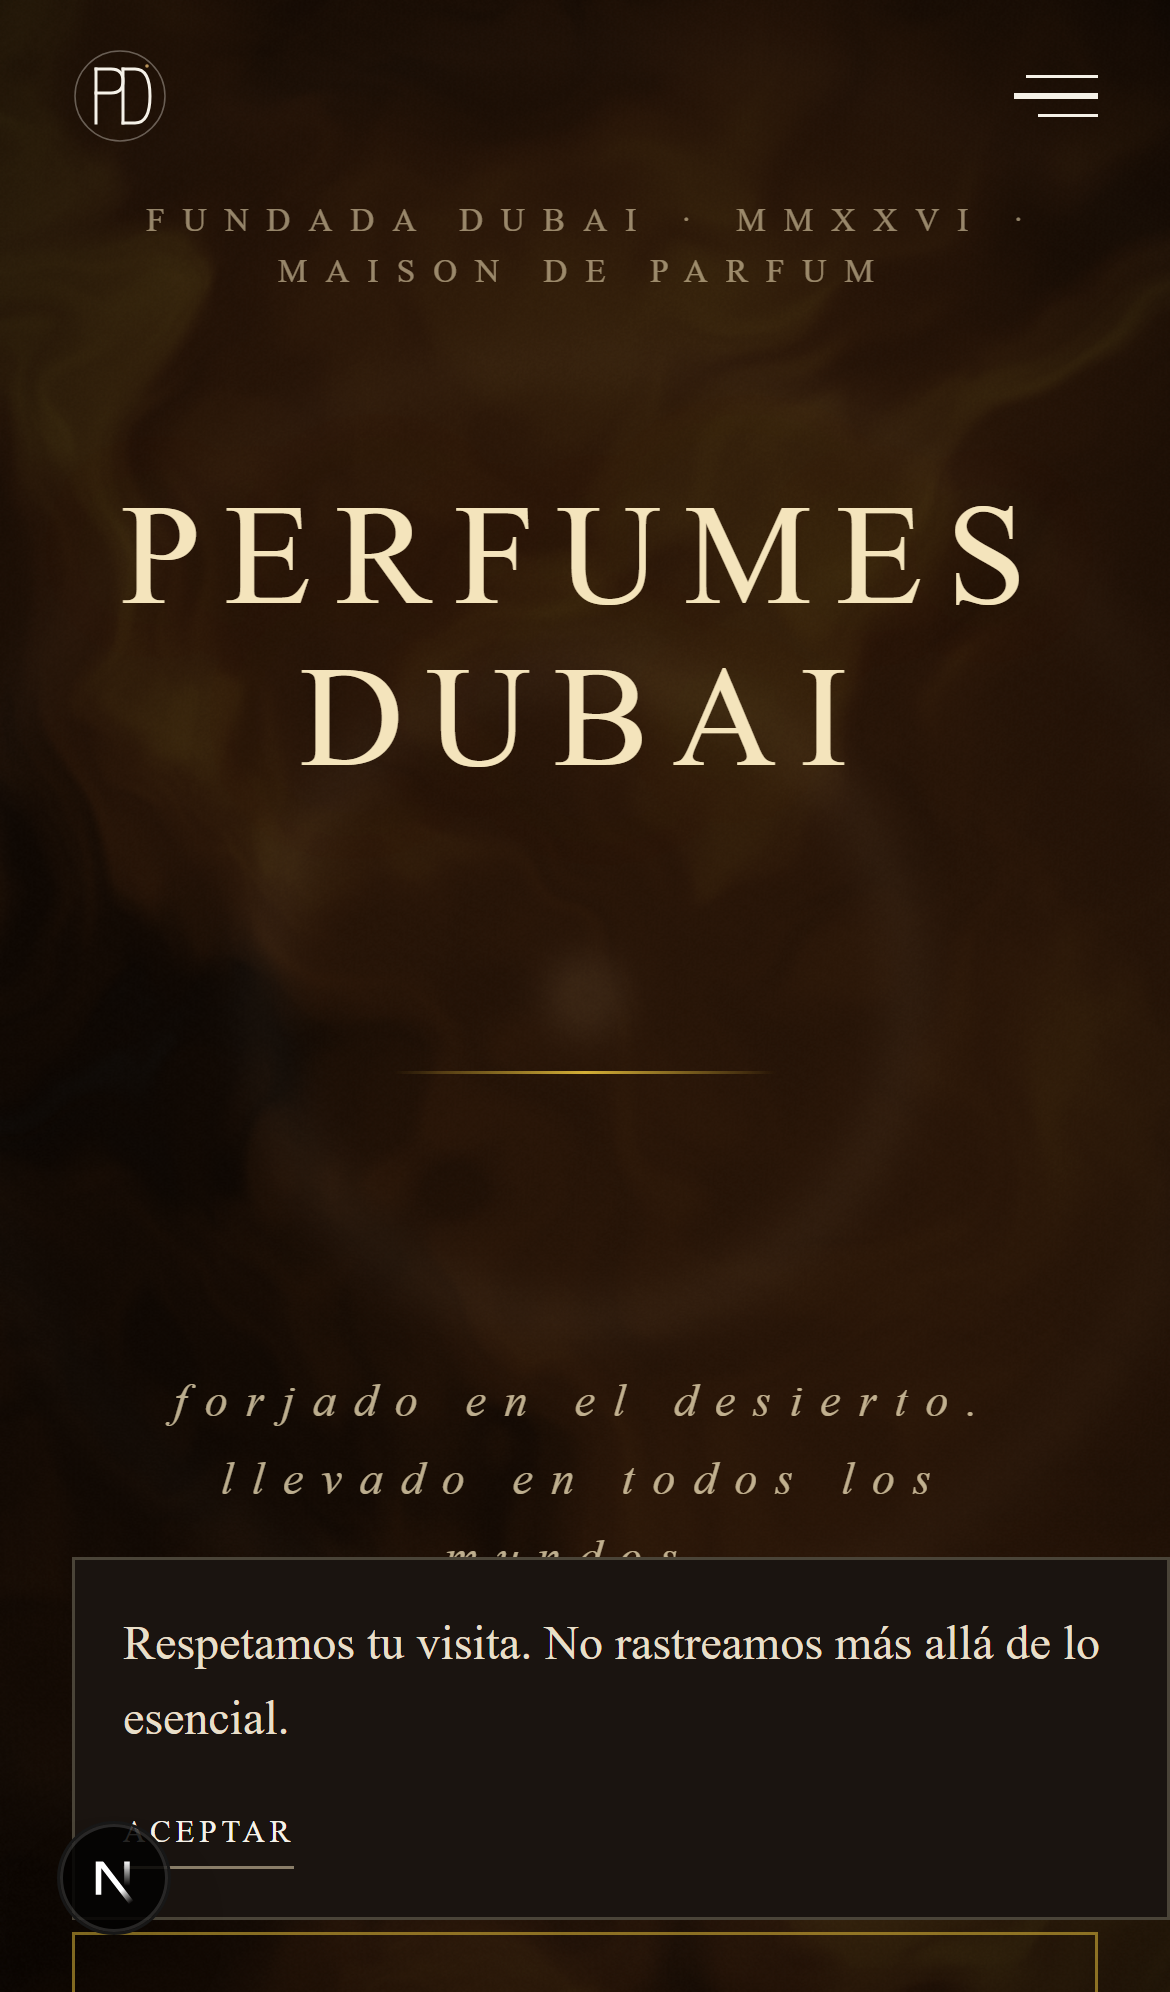
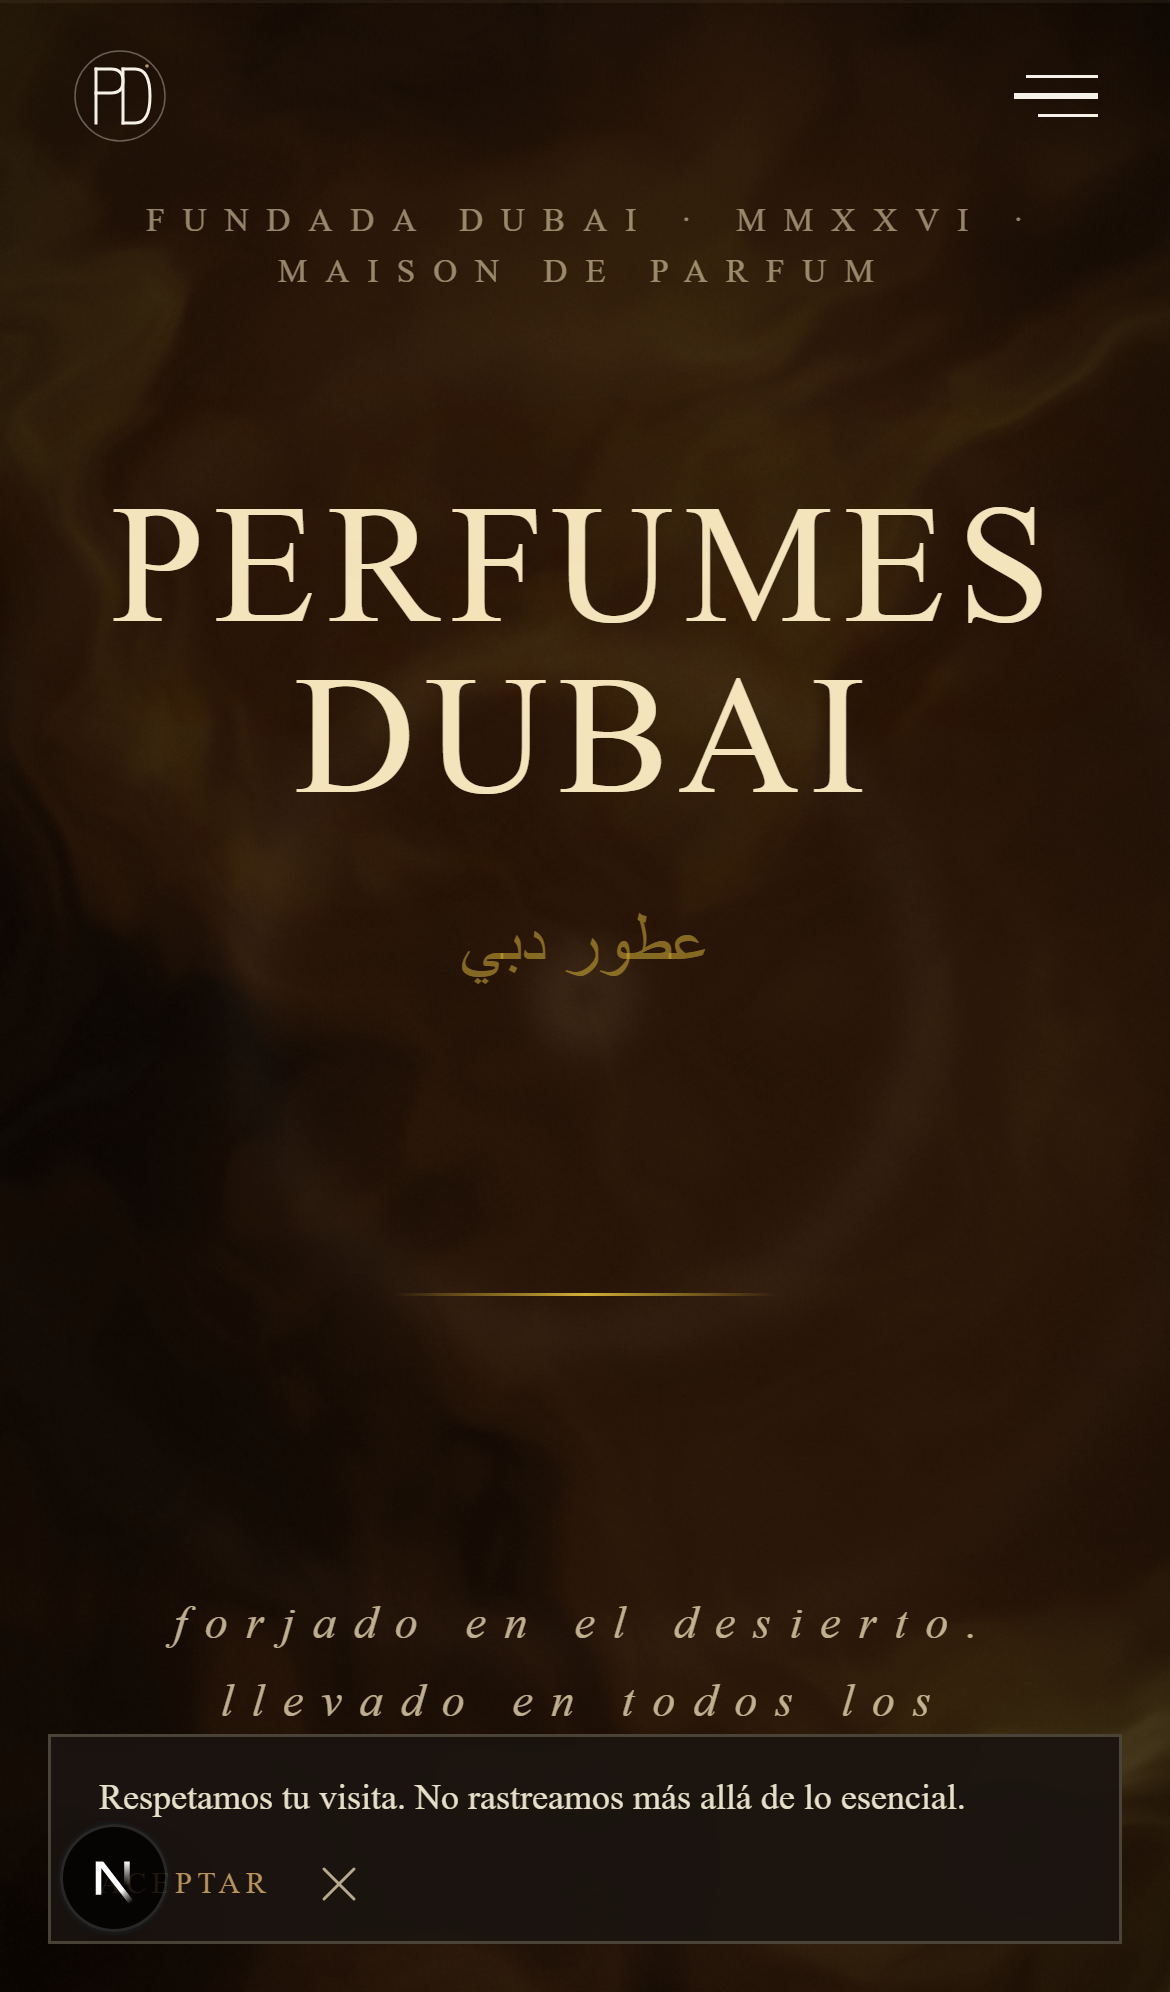
feat(type): swap wordmark to Rakkas + add Arabic عطور دبي under it
User: 'no tiene la tipografia arabe lo que te dije'. Aboreto was too
subtle. Switched to RAKKAS (Google Font specifically designed to render
Latin letters with Arabic Naskh anatomy — visible bowls, tall ascenders,
terminal flicks, the rhythm of Arabic calligraphy). Brand wordmark now
reads unmistakably Maghreb/Levantine.

Stack updated:
- lib/fonts.ts: added Rakkas next/font weight 400 → --font-rakkas.
- globals.css: --font-wordmark now Rakkas → Aboreto → Georgia fallback chain.
- Hero.tsx: letter-spacing relaxed from 0.16em to 0.06em (Rakkas already
  carries wide Arabic rhythm built in; extra tracking destroys the
  Naskh connections). Font-size clamp bumped slightly (3.5rem → 10rem).
- Hero.tsx: added <p dir='rtl' lang='ar'> with 'عطور دبي' below the
  Latin wordmark on ES/EN locales (gold-200/0.55) so the maison's Arabic
  heritage is anchored visually on every visit, not only on /ar.

Verified on iPhone 13 viewport — clamp keeps composition tight and the
Arabic line wraps below cleanly.

diff --git a/components/sections/Hero.tsx b/components/sections/Hero.tsx
@@ -39,18 +39,20 @@ export async function Hero({ locale }: HeroProps) {
             {t("eyebrow")}
           </p>
 
-          {/* Wordmark with per-letter hover lift. Aboreto for Latin,
-              Naskh for Arabic. */}
+          {/* Wordmark — Rakkas (Latin styled as Arabic Naskh script)
+              for ES/EN, Noto Naskh for AR. Rakkas brings the swooping
+              bowls, ascenders and terminal flicks of Arabic calligraphy
+              to Latin letters; the brand reads genuinely Levantine. */}
           <h1
             className={isRtl ? "font-arabic-display" : ""}
             style={{
               fontFamily: isRtl ? undefined : "var(--font-wordmark)",
-              fontSize: "clamp(3rem, 11vw, 9.5rem)",
-              letterSpacing: isRtl ? "0" : "0.16em",
+              fontSize: "clamp(3.5rem, 12vw, 10rem)",
+              letterSpacing: isRtl ? "0" : "0.06em",
               fontWeight: 400,
               lineHeight: 0.95,
               color: "#f4e4bc",
-              textShadow: "0 0 80px rgba(244, 228, 188, 0.18)",
+              textShadow: "0 0 80px rgba(244, 228, 188, 0.22)",
             }}
           >
             {isRtl ? (
@@ -61,19 +63,37 @@ export async function Hero({ locale }: HeroProps) {
           </h1>
           {wordmarkSub && (
             <h2
-              className="mt-[var(--space-2)] md:mt-[var(--space-3)]"
+              className="mt-[var(--space-1)] md:mt-[var(--space-2)]"
               style={{
                 fontFamily: "var(--font-wordmark)",
-                fontSize: "clamp(3rem, 11vw, 9.5rem)",
-                letterSpacing: "0.16em",
+                fontSize: "clamp(3.5rem, 12vw, 10rem)",
+                letterSpacing: "0.06em",
                 fontWeight: 400,
                 lineHeight: 0.95,
                 color: "#f4e4bc",
-                textShadow: "0 0 80px rgba(244, 228, 188, 0.18)",
+                textShadow: "0 0 80px rgba(244, 228, 188, 0.22)",
               }}
             >
               <HeroWordmark text={wordmarkSub} ariaLabel={wordmarkSub} />
             </h2>
+          )}
+          {/* Arabic subtitle below the Latin wordmark — present on all
+              locales to anchor the maison's heritage. */}
+          {!isRtl && (
+            <p
+              aria-hidden
+              dir="rtl"
+              lang="ar"
+              className="font-arabic-display mt-[var(--space-5)] md:mt-[var(--space-6)]"
+              style={{
+                fontSize: "clamp(1.5rem, 3vw, 2.5rem)",
+                letterSpacing: 0,
+                color: "rgba(212, 175, 55, 0.55)",
+                fontWeight: 400,
+              }}
+            >
+              عطور دبي
+            </p>
           )}
 
           {/* Gold divider */}

diff --git a/lib/fonts.ts b/lib/fonts.ts
@@ -5,6 +5,7 @@ import {
   Noto_Naskh_Arabic,
   IBM_Plex_Sans_Arabic,
   Aboreto,
+  Rakkas,
 } from "next/font/google";
 
 export const fraunces = Fraunces({
@@ -45,13 +46,22 @@ export const plexArabic = IBM_Plex_Sans_Arabic({
   weight: ["400", "500"],
 });
 
-// Aboreto — Latin display face designed to evoke Arabic calligraphy
-// (geometric strokes, tall ascenders, classical bone structure). Used
-// for the brand wordmark to give 'PERFUMES DUBAI' a Maghreb/Levantine
-// editorial feel without losing Latin legibility.
+// Aboreto — kept for any secondary display use (geometric Latin with
+// slight Arabic flavour). Not the brand wordmark anymore.
 export const aboreto = Aboreto({
   subsets: ["latin"],
   variable: "--font-aboreto",
+  display: "swap",
+  weight: ["400"],
+});
+
+// Rakkas — Latin display face specifically designed to look like Arabic
+// Naskh calligraphy. The letters carry the bowls, ascenders, terminal
+// flicks and rhythm of Arabic script while remaining Latin-readable.
+// THIS is the brand wordmark — drama and Maghreb identity together.
+export const rakkas = Rakkas({
+  subsets: ["latin"],
+  variable: "--font-rakkas",
   display: "swap",
   weight: ["400"],
 });
@@ -63,4 +73,5 @@ export const fontVariables = [
   notoNaskh.variable,
   plexArabic.variable,
   aboreto.variable,
+  rakkas.variable,
 ].join(" ");

diff --git a/app/globals.css b/app/globals.css
@@ -74,7 +74,7 @@
   --duration-slow: 1100ms;
   --duration-cinematic: 1800ms;
 
-  --font-wordmark: var(--font-aboreto), "Cinzel", Georgia, serif;
+  --font-wordmark: var(--font-rakkas), var(--font-aboreto), Georgia, serif;
   --font-display: var(--font-fraunces), Georgia, "Times New Roman", serif;
   --font-body: var(--font-inter), -apple-system, BlinkMacSystemFont, "Segoe UI", sans-serif;
   --font-mono: var(--font-jetbrains), ui-monospace, SFMono-Regular, monospace;
